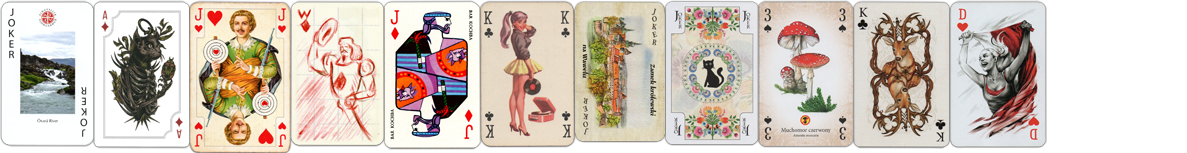
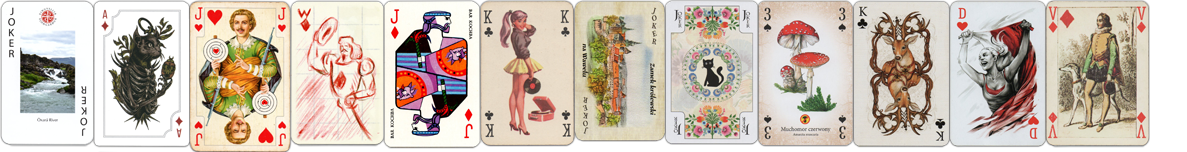
feat(Playing cards): add new cards

diff --git a/src/app/components/item-pages/PlayingCardsPage/index.tsx b/src/app/components/item-pages/PlayingCardsPage/index.tsx
@@ -15,6 +15,7 @@ import playingCards4Imgs from './playing-cards-row4.png'
 import playingCards5Imgs from './playing-cards-row5.png'
 import playingCards6Imgs from './playing-cards-row6.png'
 import playingCards7Imgs from './playing-cards-row7.png'
+import playingCards8Imgs from './playing-cards-row8.png'
 import playingCardsXImgs from './playing-cards-unusual.png'
 
 interface Data {
@@ -777,6 +778,34 @@ const PlayingCardsPage: React.FunctionComponent<ItemPageProps> = ({className, it
               width={96}
               height={148}
               imgs={playingCards7Imgs}
+            />
+            <PlayingCard
+              href="http://www.dama-pik.com.ua/cards/french-suit/rois-de-france/"
+              title="Rois de France"
+              x={1047}
+              y={0}
+              width={104}
+              height={148}
+              imgs={playingCards7Imgs}
+            />
+
+            {/* row #8 */}
+            <PlayingCard
+              title="Roma"
+              x={0}
+              y={0}
+              width={94}
+              height={147}
+              imgs={playingCards8Imgs}
+            />
+            <PlayingCard
+              href="http://www.dama-pik.com.ua/cards/music/pink-floyd-i/"
+              title="Pink Floyd"
+              x={95}
+              y={0}
+              width={103}
+              height={147}
+              imgs={playingCards8Imgs}
             />
 
             {/* rest */}

diff --git a/src/app/data/translations/ru.ts b/src/app/data/translations/ru.ts
@@ -456,9 +456,9 @@ export const ru: TranslatedStrings = {
       p1: 'Коллекционирую с детства.',
       p2:
         'Не ставлю себе задачу собрать очень много и всё подряд, поэтому коллекция не очень \
-большая и насчитывает на данный момент около 90 колод. Собираю именно те, \
+большая и насчитывает на данный момент около 100 колод. Собираю именно те, \
 которые понравились.',
-      imgTitle: 'По одной карте из каждой колоды (кликабельно). Ноябрь 2020',
+      imgTitle: 'По одной карте из каждой колоды (кликабельно). Февраль 2021',
     },
   },
   Poland: {

diff --git a/src/app/data/translations/en.ts b/src/app/data/translations/en.ts
@@ -372,9 +372,9 @@ export const en: TranslatedStrings = {
       p1: 'Collecting since my childhood.',
       p2:
         'There is no purpose to gather everything from everywhere, \
-so the collection is not so big and contains around 90 decks today. \
+so the collection is not so big and contains around 100 decks today. \
 Collecting those which I really like.',
-      imgTitle: 'One card from each deck (clickable). November 2020',
+      imgTitle: 'One card from each deck (clickable). February 2021',
     },
   },
   Poland: {
